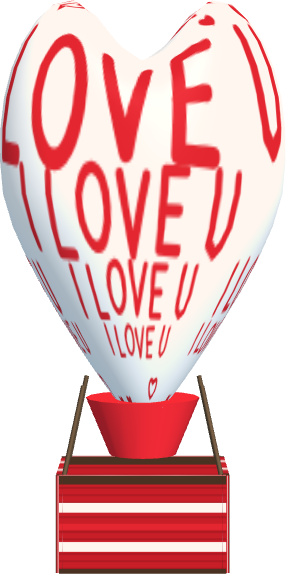
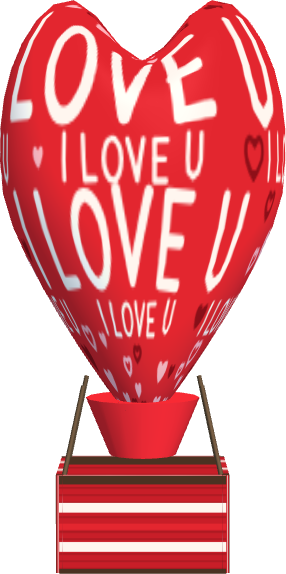
Heart balloon: Golan's pick, red with alternating big and small rows
Claude-Session: https://claude.ai/code/session_01Qbw1KvHs2Rw8tGkzEo2hg4

diff --git a/games/shared/love-balloon.js b/games/shared/love-balloon.js
@@ -33,17 +33,16 @@ function loveHeart(ctx, x, y, r, fill) {
 const loveWordW = (h) => { const w = h * 0.62, gap = h * 0.22; return 6 * (w + gap) + (w * 0.35 + gap) + 2 * h * 0.35 - gap; };   // "I LOVE U"
 // flat: W x H front picture (the whole 100 x 134 picker box, y from -14); uv: W x H skin around the balloon (x = around, y = top to bottom)
 function paintLove(ctx, W, H, d, uv) {
-  const [a, b] = d.c, rnd = loveRand(7), boxes = [];
+  // Golan's pick 28.10 (option 5 of 5): a red balloon, cream words in rows that alternate big and small, dark-red and pink hearts
+  const a = "#E3262F", b = "#FFF6EF", hearts = ["#8E0F18", "#FFB3BC"], rnd = loveRand(16), boxes = [];
   ctx.fillStyle = a; ctx.fillRect(0, 0, W, H);
   ctx.save(); if (uv) { ctx.translate(W, H); ctx.scale(-1, -1); }   // the sphere skin is turned around: turn it back so the words read
   ctx.strokeStyle = b; ctx.fillStyle = b; ctx.lineCap = "round"; ctx.lineJoin = "round";
   const word = (x, y, h) => { ctx.lineWidth = h * 0.16; const e = loveWord(ctx, x, y, h, rnd); boxes.push([x - h * 0.1, y - h * 0.1, e + h * 0.1, y + h * 1.1]); return e; };
   if (uv) {
-    // four rows, the biggest on top and smaller down to the mouth (Golan 27.10)
-    let t = 0.26;
-    // every row has one "I LOVE U" centred on the front (three quarters of the way across the skin) and the rest evenly around it
-    [0.19, 0.105, 0.072, 0.05].forEach((k) => { const h = H * k, w = loveWordW(h), n = Math.max(1, Math.floor(W / (w + h * 0.9))), step = W / n;
-      for (let j = -n; j <= n; j++) { const x = W * 0.75 - w / 2 + j * step; if (x < W && x + w > 0) word(x, H * t, h); } t += k + 0.02; });
+    // big, small, big, small rows; every row has one "I LOVE U" centred on the front (three quarters of the way across the skin) and the rest evenly around it
+    for (const [t, k] of [[0.22, 0.17], [0.42, 0.06], [0.5, 0.12], [0.65, 0.05]]) { const h = H * k, w = loveWordW(h), n = Math.max(1, Math.floor(W / (w + h * 0.9))), step = W / n;
+      for (let j = -n; j <= n; j++) { const x = W * 0.75 - w / 2 + j * step; if (x < W && x + w > 0) word(x, H * t, h); } }
   } else {
     // four rows, narrower and smaller down the heart, as in the drawing: [top, letter height, room] in the 100 x 120 box
     for (const [y, h, room] of [[6, 10, 78], [21, 10, 76], [36, 9.5, 66], [51, 8.5, 50], [65, 7, 32]]) {
@@ -51,14 +50,14 @@ function paintLove(ctx, W, H, d, uv) {
     }
   }
   // hearts in the gaps, filled and outlined, never on the words
-  const unit = uv ? H * 0.11 : H * 0.09, want = uv ? 30 : 14, placed = [];
+  const unit = uv ? H * 0.1 : H * 0.09, want = uv ? 120 : 14, placed = [];
   const env = uv ? null : new Path2D(LOVE_ENV), inEnv = (x, y, r) => !env || [[0, 0], [r, 0], [-r, 0], [0, r], [0, -r]].every(([dx, dy]) => ctx.isPointInPath(env, (x + dx) * 100 / W, (y + dy) * 134 / H - 14));
-  for (let k = 0; k < 600 && placed.length < want; k++) {
-    const r = unit * (0.22 + rnd() * 0.28), x = r + rnd() * (W - 2 * r), y = H * (uv ? 0.1 : 0.03) + rnd() * H * (uv ? 0.78 : 0.75);
+  for (let k = 0; k < 6000 && placed.length < want; k++) {
+    const r = unit * (0.18 + rnd() * 0.32), x = r + rnd() * (W - 2 * r), y = H * (uv ? 0.1 : 0.03) + rnd() * H * (uv ? 0.78 : 0.75);
     if (!inEnv(x, y, r * 1.6)) continue;
     if (boxes.some(([x0, y0, x1, y1]) => x > x0 - r && x < x1 + r && y > y0 - r && y < y1 + r)) continue;
-    if (placed.some(([px, py, pr]) => Math.hypot(px - x, py - y) < (pr + r) * 1.3)) continue;
-    placed.push([x, y, r]); ctx.lineWidth = unit * 0.1; loveHeart(ctx, x, y, r, rnd() < 0.65);
+    if (placed.some(([px, py, pr]) => Math.hypot(px - x, py - y) < (pr + r) * 1.15)) continue;
+    placed.push([x, y, r]); ctx.fillStyle = ctx.strokeStyle = hearts[Math.floor(rnd() * hearts.length)]; ctx.lineWidth = unit * 0.1; loveHeart(ctx, x, y, r, rnd() < 0.7);
   }
   ctx.restore();
 }
